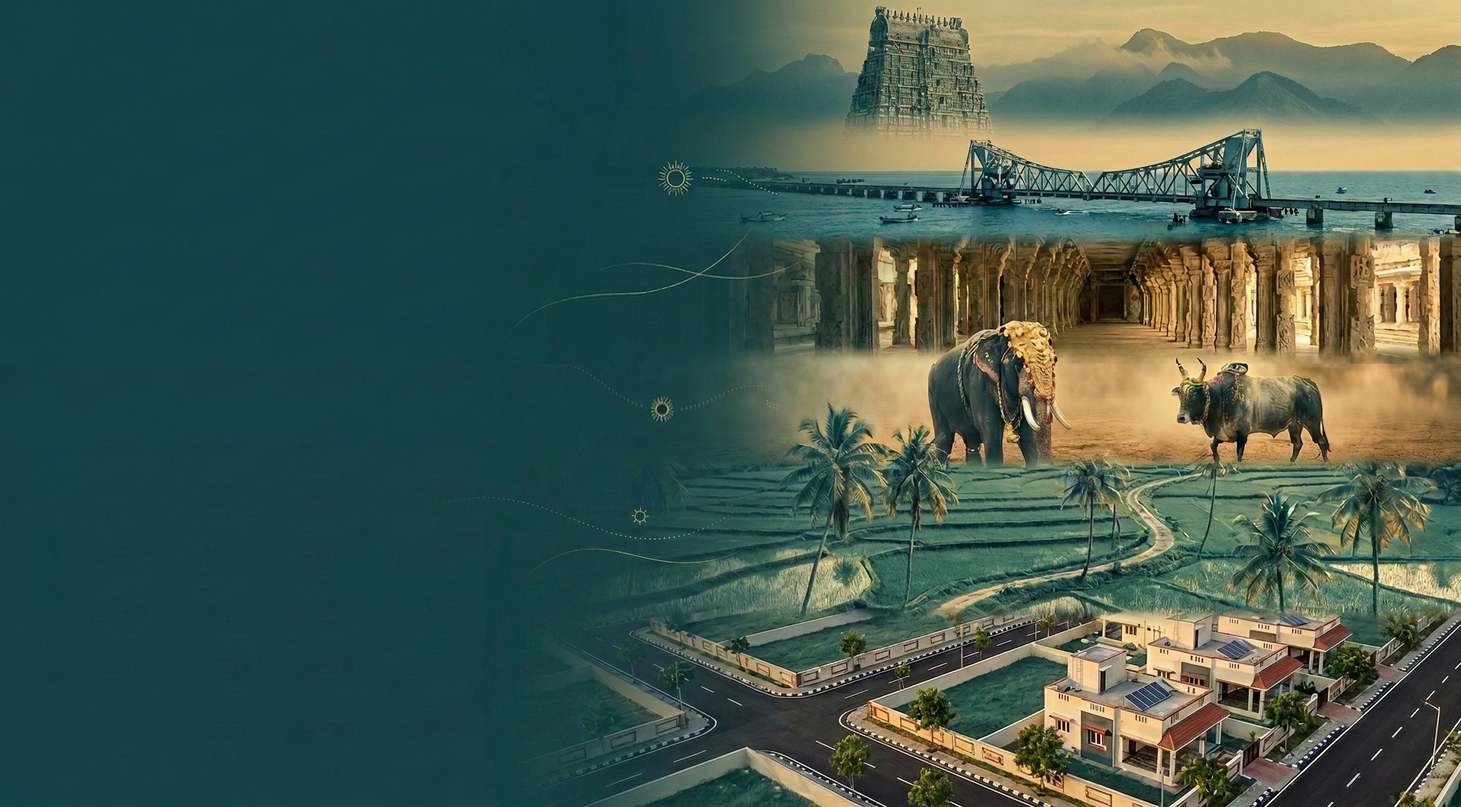
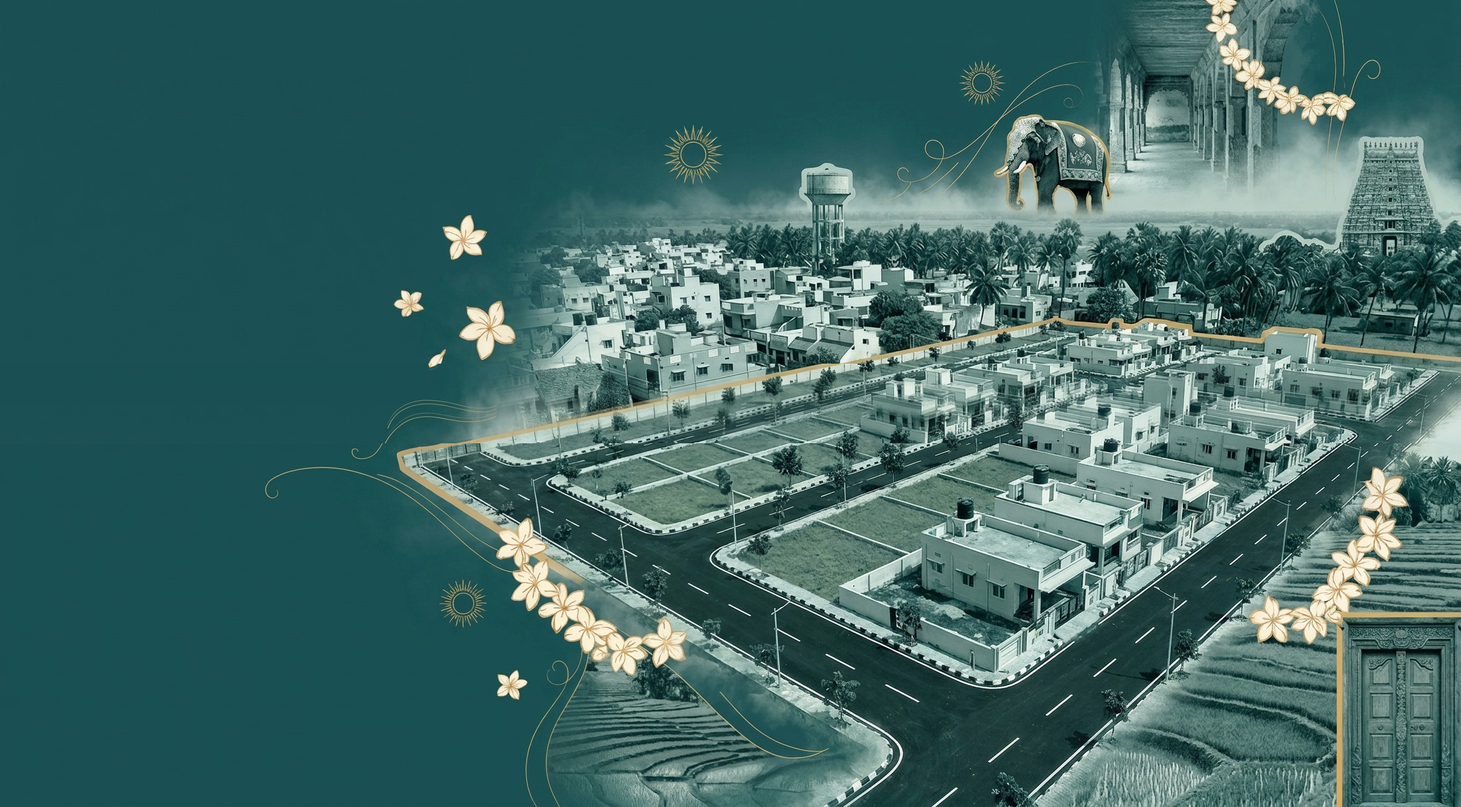
hero: plots-led collage in the Projects page style
Built to the client's three notes rather than around them: the plotted layout
with its roads, kerbed plots, avenue trees and completed homes is the dominant
element, an existing town of packed rooftops sits immediately behind it, and
the heritage pieces are small and secondary. No rocky hill anywhere.

Treatment carried from south-land.webp: teal duotone cut-outs, gold hairlines
and sun motifs, jasmine garlands, flat teal left third for the headline. A
second pass dissolved the rectangular block edges the client objected to last
time, then tools/upscale_tiles.py took it to 2530px for Retina.

That tool now skips tiles whose stddev says they are effectively flat colour,
because the model was inventing scenery in empty teal when asked for detail.

diff --git a/index.html b/index.html
@@ -15,7 +15,7 @@
 <link rel="preconnect" href="https://fonts.googleapis.com">
 <link rel="preconnect" href="https://fonts.gstatic.com" crossorigin>
 <link rel="stylesheet" href="https://fonts.googleapis.com/css2?family=Instrument+Sans:wght@400;500;600;700&family=Inter:wght@400;500;600&family=Cinzel:wght@600;700&display=swap">
-<link rel="stylesheet" href="mrc.css?v=1790785956">
+<link rel="stylesheet" href="mrc.css?v=1790973046">
 <link rel="stylesheet" href="https://cdnjs.cloudflare.com/ajax/libs/leaflet/1.9.4/leaflet.min.css">
 </head>
 <body>
@@ -70,7 +70,7 @@
         <a class="btn btn-gold-out" href="https://forms.mrclandmarks.com/visit">Schedule a Visit</a>
       </div>
       </div>
-      <div class="lead-shot"><img src="hero-south.jpg?v=1790785956" alt="Southern Tamil Nadu in layers &mdash; a temple gopuram and the Western Ghats, the Pamban bridge, a palace colonnade, a temple elephant and a jallikattu bull, paddy fields and palms, and at the base a residential plot layout with roads and completed homes" width="2530" height="1398" fetchpriority="high"></div>
+      <div class="lead-shot"><img src="hero-south.jpg?v=1790973046" alt="A plotted residential layout in Southern Tamil Nadu &mdash; tarred roads, kerbed plots, avenue trees and completed homes, with an existing town, palms, a water tank and a temple gopuram around it" width="2530" height="1398" fetchpriority="high"></div>
       <div class="lead-veil"></div>
     </div>
   </section>

diff --git a/project-anantaa.html b/project-anantaa.html
@@ -15,7 +15,7 @@
 <link rel="preconnect" href="https://fonts.googleapis.com">
 <link rel="preconnect" href="https://fonts.gstatic.com" crossorigin>
 <link rel="stylesheet" href="https://fonts.googleapis.com/css2?family=Instrument+Sans:wght@400;500;600;700&family=Inter:wght@400;500;600&family=Cinzel:wght@600;700&display=swap">
-<link rel="stylesheet" href="mrc.css?v=1790785956">
+<link rel="stylesheet" href="mrc.css?v=1790973046">
 <link rel="stylesheet" href="https://cdnjs.cloudflare.com/ajax/libs/leaflet/1.9.4/leaflet.min.css">
 </head>
 <body>

diff --git a/project.html b/project.html
@@ -15,7 +15,7 @@
 <link rel="preconnect" href="https://fonts.googleapis.com">
 <link rel="preconnect" href="https://fonts.gstatic.com" crossorigin>
 <link rel="stylesheet" href="https://fonts.googleapis.com/css2?family=Instrument+Sans:wght@400;500;600;700&family=Inter:wght@400;500;600&family=Cinzel:wght@600;700&display=swap">
-<link rel="stylesheet" href="mrc.css?v=1790785956">
+<link rel="stylesheet" href="mrc.css?v=1790973046">
 <link rel="stylesheet" href="https://cdnjs.cloudflare.com/ajax/libs/leaflet/1.9.4/leaflet.min.css">
 </head>
 <body>

diff --git a/projects.html b/projects.html
@@ -15,7 +15,7 @@
 <link rel="preconnect" href="https://fonts.googleapis.com">
 <link rel="preconnect" href="https://fonts.gstatic.com" crossorigin>
 <link rel="stylesheet" href="https://fonts.googleapis.com/css2?family=Instrument+Sans:wght@400;500;600;700&family=Inter:wght@400;500;600&family=Cinzel:wght@600;700&display=swap">
-<link rel="stylesheet" href="mrc.css?v=1790785956">
+<link rel="stylesheet" href="mrc.css?v=1790973046">
 <link rel="stylesheet" href="https://cdnjs.cloudflare.com/ajax/libs/leaflet/1.9.4/leaflet.min.css">
 </head>
 <body>

diff --git a/about.html b/about.html
@@ -15,7 +15,7 @@
 <link rel="preconnect" href="https://fonts.googleapis.com">
 <link rel="preconnect" href="https://fonts.gstatic.com" crossorigin>
 <link rel="stylesheet" href="https://fonts.googleapis.com/css2?family=Instrument+Sans:wght@400;500;600;700&family=Inter:wght@400;500;600&family=Cinzel:wght@600;700&display=swap">
-<link rel="stylesheet" href="mrc.css?v=1790785956">
+<link rel="stylesheet" href="mrc.css?v=1790973046">
 </head>
 <body>
 <button class="promo" type="button" data-enquire aria-label="Book a free site visit">

diff --git a/approach.html b/approach.html
@@ -15,7 +15,7 @@
 <link rel="preconnect" href="https://fonts.googleapis.com">
 <link rel="preconnect" href="https://fonts.gstatic.com" crossorigin>
 <link rel="stylesheet" href="https://fonts.googleapis.com/css2?family=Instrument+Sans:wght@400;500;600;700&family=Inter:wght@400;500;600&family=Cinzel:wght@600;700&display=swap">
-<link rel="stylesheet" href="mrc.css?v=1790785956">
+<link rel="stylesheet" href="mrc.css?v=1790973046">
 </head>
 <body>
 <button class="promo" type="button" data-enquire aria-label="Book a free site visit">

diff --git a/channel-partners.html b/channel-partners.html
@@ -15,7 +15,7 @@
 <link rel="preconnect" href="https://fonts.googleapis.com">
 <link rel="preconnect" href="https://fonts.gstatic.com" crossorigin>
 <link rel="stylesheet" href="https://fonts.googleapis.com/css2?family=Instrument+Sans:wght@400;500;600;700&family=Inter:wght@400;500;600&family=Cinzel:wght@600;700&display=swap">
-<link rel="stylesheet" href="mrc.css?v=1790785956">
+<link rel="stylesheet" href="mrc.css?v=1790973046">
 </head>
 <body>
 <button class="promo" type="button" data-enquire aria-label="Book a free site visit">

diff --git a/contact.html b/contact.html
@@ -15,7 +15,7 @@
 <link rel="preconnect" href="https://fonts.googleapis.com">
 <link rel="preconnect" href="https://fonts.gstatic.com" crossorigin>
 <link rel="stylesheet" href="https://fonts.googleapis.com/css2?family=Instrument+Sans:wght@400;500;600;700&family=Inter:wght@400;500;600&family=Cinzel:wght@600;700&display=swap">
-<link rel="stylesheet" href="mrc.css?v=1790785956">
+<link rel="stylesheet" href="mrc.css?v=1790973046">
 </head>
 <body>
 <button class="promo" type="button" data-enquire aria-label="Book a free site visit">

diff --git a/insight-dtcp-rera.html b/insight-dtcp-rera.html
@@ -15,7 +15,7 @@
 <link rel="preconnect" href="https://fonts.googleapis.com">
 <link rel="preconnect" href="https://fonts.gstatic.com" crossorigin>
 <link rel="stylesheet" href="https://fonts.googleapis.com/css2?family=Instrument+Sans:wght@400;500;600;700&family=Inter:wght@400;500;600&family=Cinzel:wght@600;700&display=swap">
-<link rel="stylesheet" href="mrc.css?v=1790785956">
+<link rel="stylesheet" href="mrc.css?v=1790973046">
 </head>
 <body>
 <button class="promo" type="button" data-enquire aria-label="Book a free site visit">

diff --git a/insight-master-plan.html b/insight-master-plan.html
@@ -15,7 +15,7 @@
 <link rel="preconnect" href="https://fonts.googleapis.com">
 <link rel="preconnect" href="https://fonts.gstatic.com" crossorigin>
 <link rel="stylesheet" href="https://fonts.googleapis.com/css2?family=Instrument+Sans:wght@400;500;600;700&family=Inter:wght@400;500;600&family=Cinzel:wght@600;700&display=swap">
-<link rel="stylesheet" href="mrc.css?v=1790785956">
+<link rel="stylesheet" href="mrc.css?v=1790973046">
 </head>
 <body>
 <button class="promo" type="button" data-enquire aria-label="Book a free site visit">

diff --git a/insight-verify-before-buying.html b/insight-verify-before-buying.html
@@ -15,7 +15,7 @@
 <link rel="preconnect" href="https://fonts.googleapis.com">
 <link rel="preconnect" href="https://fonts.gstatic.com" crossorigin>
 <link rel="stylesheet" href="https://fonts.googleapis.com/css2?family=Instrument+Sans:wght@400;500;600;700&family=Inter:wght@400;500;600&family=Cinzel:wght@600;700&display=swap">
-<link rel="stylesheet" href="mrc.css?v=1790785956">
+<link rel="stylesheet" href="mrc.css?v=1790973046">
 </head>
 <body>
 <button class="promo" type="button" data-enquire aria-label="Book a free site visit">

diff --git a/insights.html b/insights.html
@@ -15,7 +15,7 @@
 <link rel="preconnect" href="https://fonts.googleapis.com">
 <link rel="preconnect" href="https://fonts.gstatic.com" crossorigin>
 <link rel="stylesheet" href="https://fonts.googleapis.com/css2?family=Instrument+Sans:wght@400;500;600;700&family=Inter:wght@400;500;600&family=Cinzel:wght@600;700&display=swap">
-<link rel="stylesheet" href="mrc.css?v=1790785956">
+<link rel="stylesheet" href="mrc.css?v=1790973046">
 </head>
 <body>
 <button class="promo" type="button" data-enquire aria-label="Book a free site visit">
